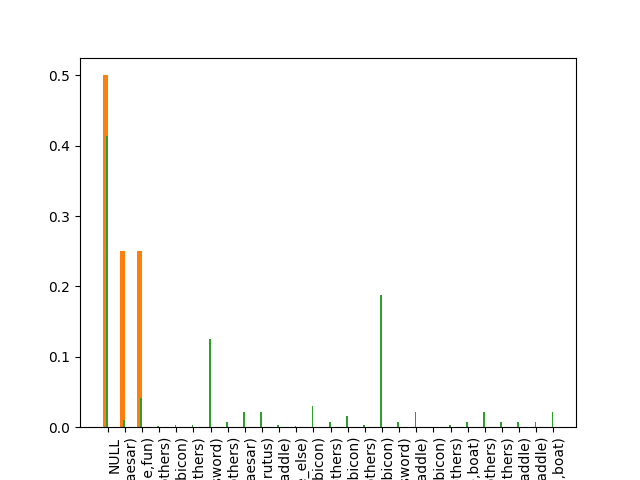
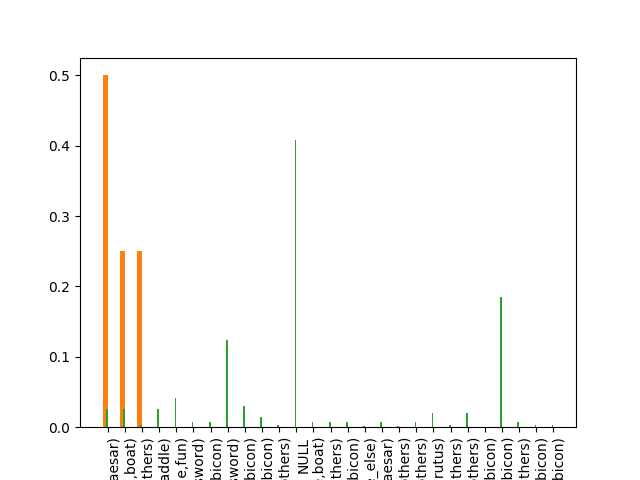
smok

Changed region(s): [[0.1562, 0.9062, 0.9062, 1.0], [0.2188, 0.8438, 0.25, 0.875]]

diff --git a/proj/court.py b/proj/court.py
@@ -88,19 +88,19 @@ if __name__ == "__main__":
         #lit listener
         l0_info =  "Lit. Listener distribution.\n\n- Correction: "+str(correction)
         lit_listener_dist = prosecutor.L0(correction)
-        helpers.plotter(lit_listener_dist, output="plots/lit_listener_1.png", addinfo=l0_info)
-        helpers.plot_dist(lit_listener_dist, output="plots/lit_listener_2.png")
+        helpers.plotter(lit_listener_dist, output="plots/lit_listener_4.png", addinfo=l0_info)
+        helpers.plot_dist(lit_listener_dist, output="plots/lit_listener_5.png")
 
     with TIME("s1 calculcation", x=False):
         #speaker
         s1_info = "Speaker distribution.\n\n- "+"Speaker event belief: "+str(beliefs[1])+"\n- "+"QUD: "+str(quds[qud])+"\n- alpha = "+str(alpha)
-        defense_attorney_dist = defense_attorney.interject(last_statement_made, qud, defense_belief,smoke_s1=False)
-        helpers.plotter(defense_attorney_dist, output="plots/prag_speaker_1.png",addinfo=s1_info)
-        helpers.plot_dist(defense_attorney_dist, output="plots/prag_speaker_2.png")
+        defense_attorney_dist = defense_attorney.interject(last_statement_made, qud,defense_belief,smoke_s1=True)
+        helpers.plotter(defense_attorney_dist, output="plots/prag_speaker_4.png",addinfo=s1_info)
+        helpers.plot_dist(defense_attorney_dist, output="plots/prag_speaker_5.png")
 
     with TIME("l1 calculation", x=True):
         #prag listener 
         prag_listener_dist = prosecutor.L1(correction, smoke_test=True)
-        plotter(prag_listener_dist, output="plots/prag_listener_1.png", addinfo="Prag. Listener distribution.\n\n- "+"Correction: "+str(correction)+"\n- alpha = "+str(alpha))
+        plotter(prag_listener_dist, output="plots/prag_listener_4.png", addinfo="Prag. Listener distribution.\n\n- "+"Correction: "+str(correction)+"\n- alpha = "+str(alpha))
 
-        helpers.plot_dist(prag_listener_dist, output="plots/prag_listener_2.png")
+        helpers.plot_dist(prag_listener_dist, output="plots/prag_listener_5.png")

diff --git a/proj/helpers.py b/proj/helpers.py
@@ -60,7 +60,7 @@ def plot_dist(d, output="plots/plot_dist.png"):
     ax.set_xticks(list(map(lambda x: x, range(1,len(data)+1))))
     ax.set_xticklabels(names,rotation=45, rotation_mode="anchor", ha="right")
 
-    plt.savefig(output, pad_inches=5)
+    plt.savefig(output, bbox_inches="tight", pad_inches=5)
 
 
 
@@ -99,7 +99,7 @@ def plotter(d, output="plots/distplot.png", addinfo=None, topk=20):
 
     #plt.tight_layout()
     if output != "show":
-        plt.savefig(output, pad_inches=5)
+        plt.savefig(output, bbox_inches="tight", pad_inches=5)
         return output
 
 
